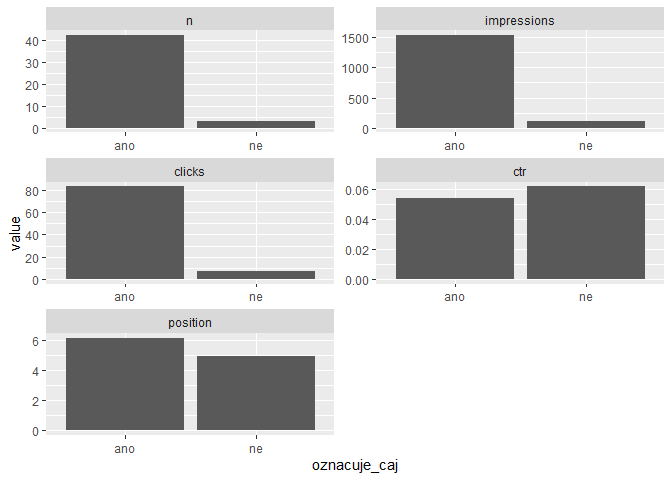
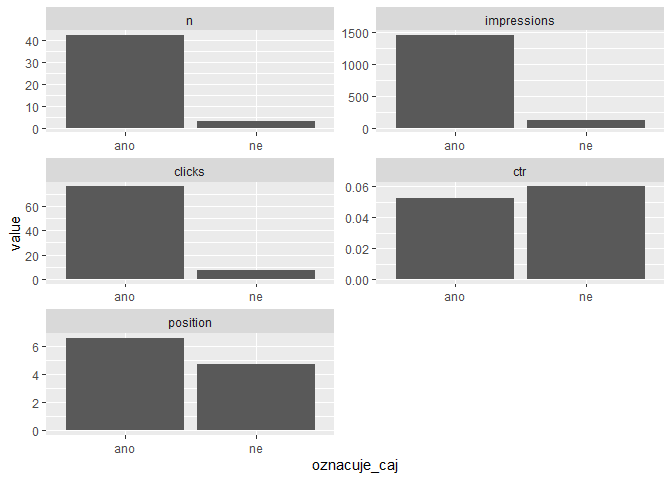
podrobnější instrukce

diff --git a/klasifikace-caju.md b/klasifikace-caju.md
@@ -1,18 +1,46 @@
 Klasifikace dotazů ze Search Console pomocí OpenAI API
 ================
 Marek Prokop
-5. 5. 2023
+7. 5. 2023
 
 ## Zadání úlohy
 
 1.  Stáhnu data dotazů ze Search Console.
 2.  Pomocí OpenAI dotazy zjednodušeně oklasifikuju a nasegmentuju.
 3.  Metriky za segmenty dotazů nějak vizualizuju.
-4.  Klasifikaci dotazů uložím do Google Sheets pro Looker Studio.
+4.  Klasifikaci dotazů uložím do [Google
+    Sheets](https://docs.google.com/spreadsheets/d/1oEGm7bAmJfC_efGu-unXdhHw9AGxMTmWULslLiNWrCY/edit#gid=1853344797)
+    pro [Looker
+    Studio](https://lookerstudio.google.com/u/0/reporting/6ecd0996-1f8e-4b4a-b26d-742285b25abb/page/p_yuweto9s5c).
+
+## Příprava
+
+Musíte mít přístup k [Search
+Consoli](https://search.google.com/search-console) alespoň jednoho webu.
+Dále musíte mít přístup k [OpenAI API](https://platform.openai.com/) a
+[vygenerovaný API klíč](https://platform.openai.com/account/api-keys).
+
+Skript počítá s tím, že máte v proměnné prostředí `MY_GOOGLE_ACCOUNT`
+uloženou e-mailovou adresu svého Google účtu a v proměnné prostředí
+`OPENAI_API_KEY` klíč k API OpenAI. Tyto proměnné vytvoříte např. takto:
+
+1.  Nainstalujte si balíček *usethis*.
+
+2.  Z konsole zadejte příkaz `usethis::edit_r_environ()`. Tím se vám v
+    editoru otevře soubor *.Renviron*.
+
+3.  Do souboru *.Renviron* přidejte tyto dva řádky s upravenými
+    hodnotami:
+
+        MY_GOOGLE_ACCOUNT = "vas.email@gmail.com"
+        OPENAI_API_KEY = "váš_api_key"
+
+4.  Soubor uložte a restartujte R (v RStudiu příkazem *Restart R* z menu
+    *Session*).
 
 ## Balíčky
 
-Připojím potřebné balíčky.
+Připojím potřebné balíčky. Pokud je nemáte nainstalované, nainstalujte.
 
 ``` r
 library(tidyverse)
@@ -30,7 +58,7 @@ Autorizuju Search Console API.
 scr_auth(email = Sys.getenv("MY_GOOGLE_ACCOUNT"))
 ```
 
-Vyberu si účet, se kterým budu pracovat.
+Vyberu si účet, se kterým budu pracovat. Vy si vyberte nějaký svůj.
 
 ``` r
 list_websites() |> 
@@ -52,21 +80,23 @@ queries |>
   slice_max(order_by = impressions, n = 10)
 ```
 
-               query clicks impressions         ctr position
-    1            cha      1         681 0.001468429 7.977974
-    2     darjeeling      2         287 0.006968641 7.435540
-    3         gaiwan      5         104 0.048076923 4.961538
-    4        kukicha     10          77 0.129870130 3.376623
-    5   dračí studna      0          76 0.000000000 4.618421
-    6         oolong      0          75 0.000000000 6.186667
-    7        hojicha     10          57 0.175438596 1.385965
-    8     vodní víla      1          43 0.023255814 2.790698
-    9  gruzínský čaj      0          43 0.000000000 7.930233
-    10  pivoňka bílá      0          40 0.000000000 5.725000
+                query clicks impressions         ctr position
+    1             cha      0         644 0.000000000 8.613354
+    2      darjeeling      2         249 0.008032129 8.413655
+    3          gaiwan      5         107 0.046728972 4.915888
+    4    dračí studna      0          76 0.000000000 4.697368
+    5         kukicha      9          69 0.130434783 3.275362
+    6         hojicha      8          52 0.153846154 1.576923
+    7   gruzínský čaj      0          44 0.000000000 7.840909
+    8      vodní víla      1          41 0.024390244 2.878049
+    9    pivoňka bílá      0          38 0.000000000 5.526316
+    10 čaj darjeeling      1          36 0.027777778 2.666667
 
 ## Klasifikace pomoci OpenAI API
 
-Definuju šablonu promptu.
+Definuju šablonu promptu. Vy si definujte svou šablonu, kterou si předem
+otestujte přímo v ChatGPT nebo v ještě lépe v
+[Playougroundu](https://platform.openai.com/playground).
 
 ``` r
 prompt_template <- read_lines("
@@ -117,13 +147,13 @@ queries$query |>
 ```
 
     $`1`
-    [1] "hojicha\nkukicha\nčaj týdne\ngaiwan\nčaj gaba\ngaba oolong\nútesový čaj\ndarjeeling\ngaba čaj účinky\nhojicha čaj\nhojicha čaj účinky\nkukicha čaj\nmatcha iri sencha\nutesovy caj\nyue guang bai\nzheng shan xiao zhong\nčaj kukicha\nbílá pivoňka čaj\ncha\nda hong pao"
+    [1] "kukicha\nhojicha\nčaj týdne\ngaiwan\nkukicha čaj\nčaj gaba\ngaba oolong\ndarjeeling\ngaba čaj\ngaba čaj účinky\nhojicha čaj účinky\nmatcha iri sencha\nya bao\nyue guang bai\nbílá pivoňka čaj\nda hong pao\ndarjeeling margaret's hope\ndian hong gong fu\ndraci studna\ndračí oči čaj"
 
     $`2`
-    [1] "darjeeling margaret's hope\ndian hong gong fu\ndraci studna\ngaba caj\ngaba čaj\ngaiwan sada\ngong fu cha\nhohicha\njaponský čaj kukicha\nkukicha čaj účinky\nlisovaný čaj\nliu bao tea\nmi lan xiang\nnejlepší čaj\noolong gaba\npai mu tan\npivonka bila\nsencha matcha\nsilný zelený čaj\ntamaryokucha"
+    [1] "gaba caj\ngaiwan sada\ngong fu cha\nhohicha\nhojicha čaj\njaponský čaj kukicha\nkukicha čaj účinky\nlisovaný čaj\nliu bao tea\nnejlepší čaj\noolong gaba\npai mu tan\npivonka bila\nsencha matcha\nsilný zelený čaj\ntamaryokucha\ntie guan yin\nutesovy caj\nutesovy čaj\nvodní víla"
 
     $`3`
-    [1] "tie guan yin\ntinderet\ntung ting\nutesovy čaj\nvodní víla"
+    [1] "vonící orchidej\nxiao zhong\nyin zhen\nzheng shan xiao zhong\nzlaty caj"
 
 Připravím funkci, která z jedné dávky dotazů a šablony sestaví prompt.
 
@@ -141,26 +171,26 @@ queries$query |>
 
     Klasifikuj následující seznam vyhledávacích dotazů:
 
-    hojicha
     kukicha
+    hojicha
     čaj týdne
     gaiwan
+    kukicha čaj
     čaj gaba
     gaba oolong
-    útesový čaj
     darjeeling
+    gaba čaj
     gaba čaj účinky
-    hojicha čaj
     hojicha čaj účinky
-    kukicha čaj
     matcha iri sencha
-    utesovy caj
+    ya bao
     yue guang bai
-    zheng shan xiao zhong
-    čaj kukicha
     bílá pivoňka čaj
-    cha
     da hong pao
+    darjeeling margaret's hope
+    dian hong gong fu
+    draci studna
+    dračí oči čaj
 
     U každého dotazu uveď, zda označuje čaj (ano/ne), a pokud ano, napiš typ čaje (černý, zelený, bílý, oolong, puerh) a zemi původu. Výsledky uspořádej do tabulky ve formátu CSV s hodnotami oddělenými čárkou.
 
@@ -188,26 +218,26 @@ queries |>
     $`1`
     Klasifikuj následující seznam vyhledávacích dotazů:
 
-    hojicha
     kukicha
+    hojicha
     čaj týdne
     gaiwan
+    kukicha čaj
     čaj gaba
     gaba oolong
-    útesový čaj
     darjeeling
+    gaba čaj
     gaba čaj účinky
-    hojicha čaj
     hojicha čaj účinky
-    kukicha čaj
     matcha iri sencha
-    utesovy caj
+    ya bao
     yue guang bai
-    zheng shan xiao zhong
-    čaj kukicha
     bílá pivoňka čaj
-    cha
     da hong pao
+    darjeeling margaret's hope
+    dian hong gong fu
+    draci studna
+    dračí oči čaj
 
     U každého dotazu uveď, zda označuje čaj (ano/ne), a pokud ano, napiš typ čaje (černý, zelený, bílý, oolong, puerh) a zemi původu. Výsledky uspořádej do tabulky ve formátu CSV s hodnotami oddělenými čárkou.
 
@@ -221,13 +251,10 @@ queries |>
     $`2`
     Klasifikuj následující seznam vyhledávacích dotazů:
 
-    darjeeling margaret's hope
-    dian hong gong fu
-    draci studna
     gaba caj
-    gaba čaj
     gaiwan sada
     gong fu cha
+    hojicha čaj
     japonský čaj kukicha
     kukicha čaj účinky
     lisovaný čaj
@@ -239,8 +266,11 @@ queries |>
     silný zelený čaj
     tamaryokucha
     tie guan yin
+    utesovy caj
     vodní víla
-    vonící orchidej
+    yin zhen
+    zlaty caj
+    útesový čaj
 
     U každého dotazu uveď, zda označuje čaj (ano/ne), a pokud ano, napiš typ čaje (černý, zelený, bílý, oolong, puerh) a zemi původu. Výsledky uspořádej do tabulky ve formátu CSV s hodnotami oddělenými čárkou.
 
@@ -254,11 +284,9 @@ queries |>
     $`3`
     Klasifikuj následující seznam vyhledávacích dotazů:
 
-    ya bao
-    zelený čaj dračí studna
-    zlaty caj
     čaj darjeeling
     čaj dračí studna
+    čaj kukicha
 
     U každého dotazu uveď, zda označuje čaj (ano/ne), a pokud ano, napiš typ čaje (černý, zelený, bílý, oolong, puerh) a zemi původu. Výsledky uspořádej do tabulky ve formátu CSV s hodnotami oddělenými čárkou.
 
@@ -273,6 +301,10 @@ Vytvořím funkci pro volání OpenAI API a zavolám API se všemi prompty.
 Výsledek uložím do objektu `ai_answer` a ten si pak uložím na disk do
 složky `data`, abych při opakovaném spouštění nevolal placené API
 zbytečně znovu.
+
+Když to budete poprvé zkoušet s vlastními daty, musíte před tím ze
+složky `data` zrušit soubor `ai_answer.rds`. Jinak by se vám z něho
+načitala moje data.
 
 ``` r
 call_ai <- function(prompt) {
@@ -330,35 +362,35 @@ classified_queries |>
   slice_sample(n = 10)
 ```
 
-                    query clicks impressions        ctr position oznacuje_caj
-    1    čaj dračí studna      1           7 0.14285714 4.000000          ano
-    2  kukicha čaj účinky      1          28 0.03571429 4.892857          ano
-    3          pai mu tan      1          28 0.03571429 8.000000          ano
-    4        draci studna      1          17 0.05882353 2.764706          ano
-    5         hojicha čaj      2           5 0.40000000 1.000000          ano
-    6        nejlepší čaj      1          14 0.07142857 5.642857          ano
-    7            gaba čaj      1          16 0.06250000 2.875000          ano
-    8       sencha matcha      1           8 0.12500000 1.375000          ano
-    9            čaj gaba      4           6 0.66666667 2.000000          ano
-    10       lisovaný čaj      1           5 0.20000000 1.600000          ano
+                         query clicks impressions        ctr position oznacuje_caj
+    1    zheng shan xiao zhong      1           1 1.00000000 1.000000          ano
+    2             tamaryokucha      1          12 0.08333333 2.166667          ano
+    3                 gaba čaj      2          19 0.10526316 2.789474          ano
+    4          gaba čaj účinky      2          12 0.16666667 1.000000          ano
+    5              gaba oolong      3          18 0.16666667 3.833333          ano
+    6               vodní víla      1          41 0.02439024 2.878049          ano
+    7                   gaiwan      5         107 0.04672897 4.915888           ne
+    8  zelený čaj dračí studna      0           1 0.00000000 7.000000          ano
+    9        dian hong gong fu      1           5 0.20000000 1.600000          ano
+    10              pai mu tan      1          28 0.03571429 7.892857          ano
        typ_caje zeme_puvodu
-    1    zelený        Čína
+    1     černý        Čína
     2    zelený    Japonsko
-    3      bílý        Čína
-    4    zelený        Čína
-    5    zelený    Japonsko
-    6      <NA>        <NA>
-    7    oolong   Tchaj-wan
-    8    zelený    Japonsko
-    9    oolong   Tchaj-wan
-    10    puerh        Čína
+    3    oolong   Tchaj-wan
+    4    oolong   Tchaj-wan
+    5    oolong   Tchaj-wan
+    6     černý        Čína
+    7      <NA>        <NA>
+    8    zelený        Čína
+    9     černý        Čína
+    10     bílý        Čína
 
 ``` r
 classified_queries |> count(oznacuje_caj, sort = TRUE)
 ```
 
       oznacuje_caj   n
-    1         <NA> 448
+    1         <NA> 419
     2          ano  42
     3           ne   3
 
@@ -367,7 +399,7 @@ classified_queries |> count(typ_caje, sort = TRUE)
 ```
 
                   typ_caje   n
-    1                 <NA> 454
+    1                 <NA> 425
     2               zelený  15
     3                černý   9
     4               oolong   7
@@ -380,7 +412,7 @@ classified_queries |> count(zeme_puvodu, sort = TRUE)
 ```
 
         zeme_puvodu   n
-    1          <NA> 454
+    1          <NA> 425
     2          Čína  18
     3      Japonsko  11
     4     Tchaj-wan   5
@@ -440,6 +472,11 @@ classified_queries |>
 ![](klasifikace-caju_files/figure-commonmark/plot_zeme_puvodu-1.png)
 
 ## Zápis klasifikace do Google Sheets
+
+Vytvořte si vlastní Google spreadsheet (může být prázdný) a dejte se
+jeho id místo mého. Na spreadsheet pak napojte vlastní report v Looker
+Studiu podle [tohoto
+vzoru](https://lookerstudio.google.com/u/0/reporting/6ecd0996-1f8e-4b4a-b26d-742285b25abb/page/p_yuweto9s5c).
 
 ``` r
 spreadsheet_id <- "1oEGm7bAmJfC_efGu-unXdhHw9AGxMTmWULslLiNWrCY"

diff --git a/README.md b/README.md
@@ -15,3 +15,10 @@ Chci ukázat využití R + [OpenAI API](https://platform.openai.com/overview) pr
 - Vyrobíme HTML report pro klienty.
 - Vyrobíme skript, který pravidelně klasifikaci aktualizuje a uloží ji do Spreadsheetu pro Looker Studio.
 - Ukážu alternátivní způsob klasifikace přes text embeddings.
+
+## Vyzkoušejte si sami
+
+1. Pokud ještě s R vůbec neumíte, prostudujte si můj návod [Od Excelu k R](https://www.prokopsw.cz/bookdown/excel-r/).
+1. V RStudiu si založte projekt z tehoto repozitáře, nebo si ho stáhněte k sobě na disk.
+1. Postupně projděte a přizpůsobte si soubor *klasifikace-caju.qmd*. Jsou v něm podrobnější instrukce.
+1. Pak můžete prostudovat a vyzkoušet i skript na pravidelnou aktualizace v *R/reclassify-queries.R*.
